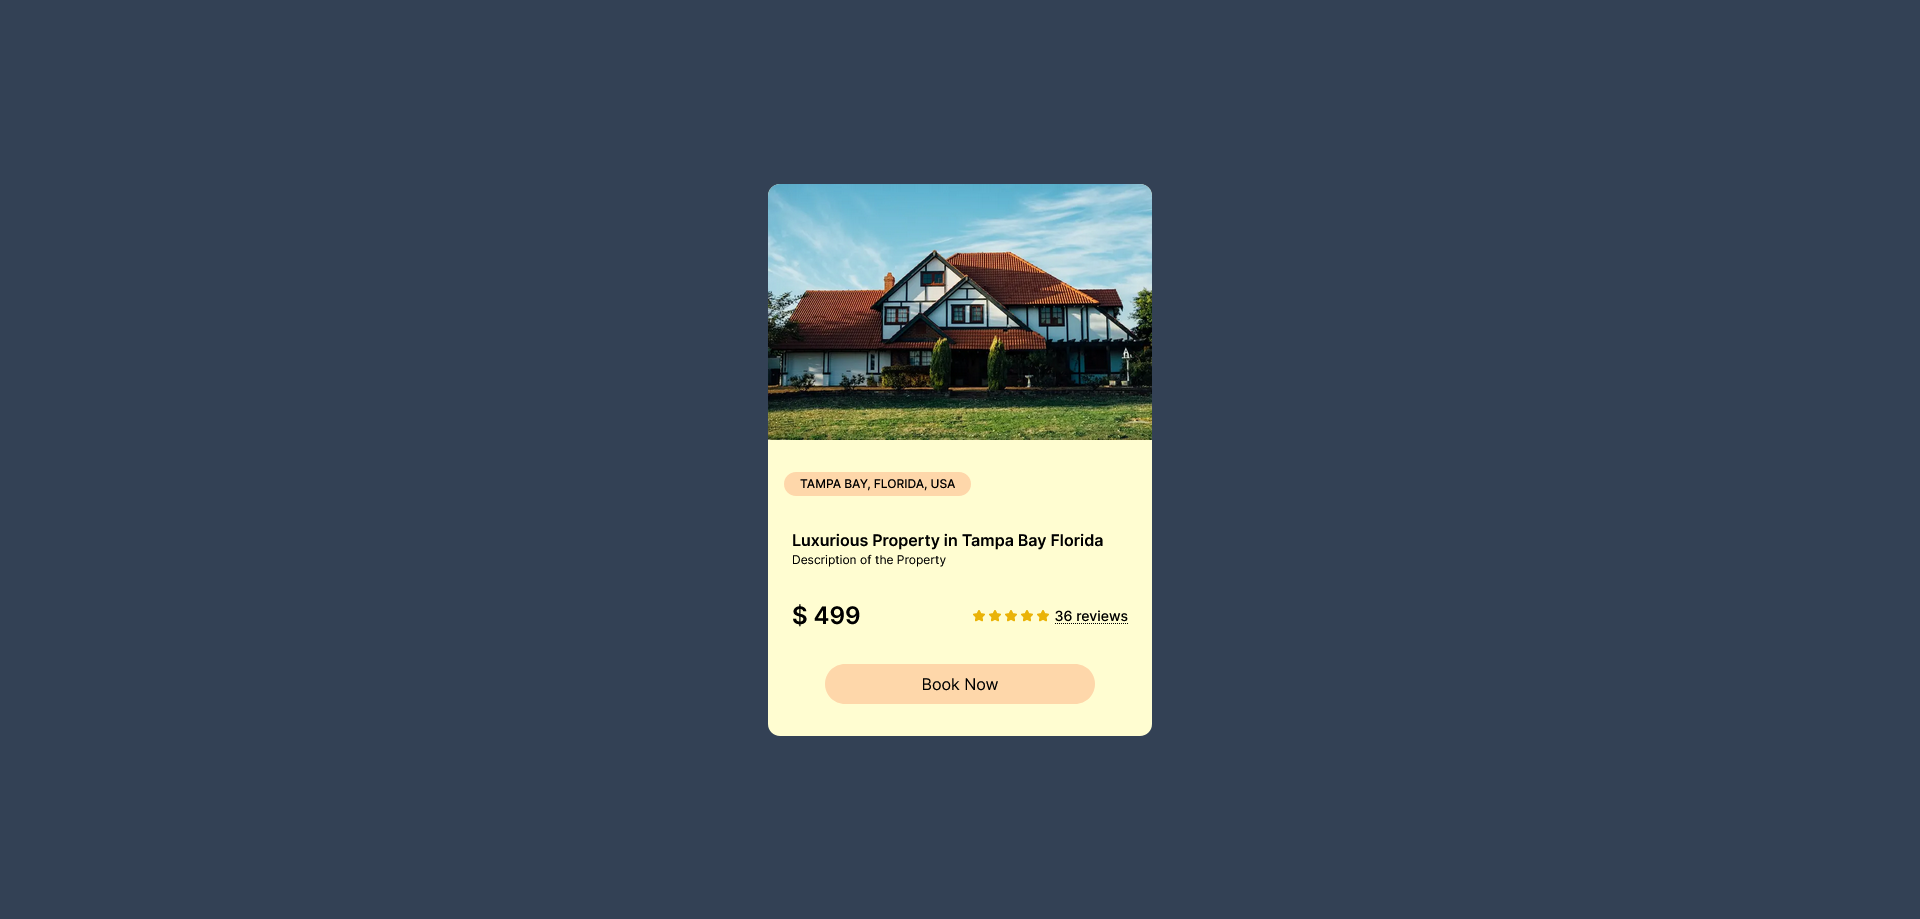
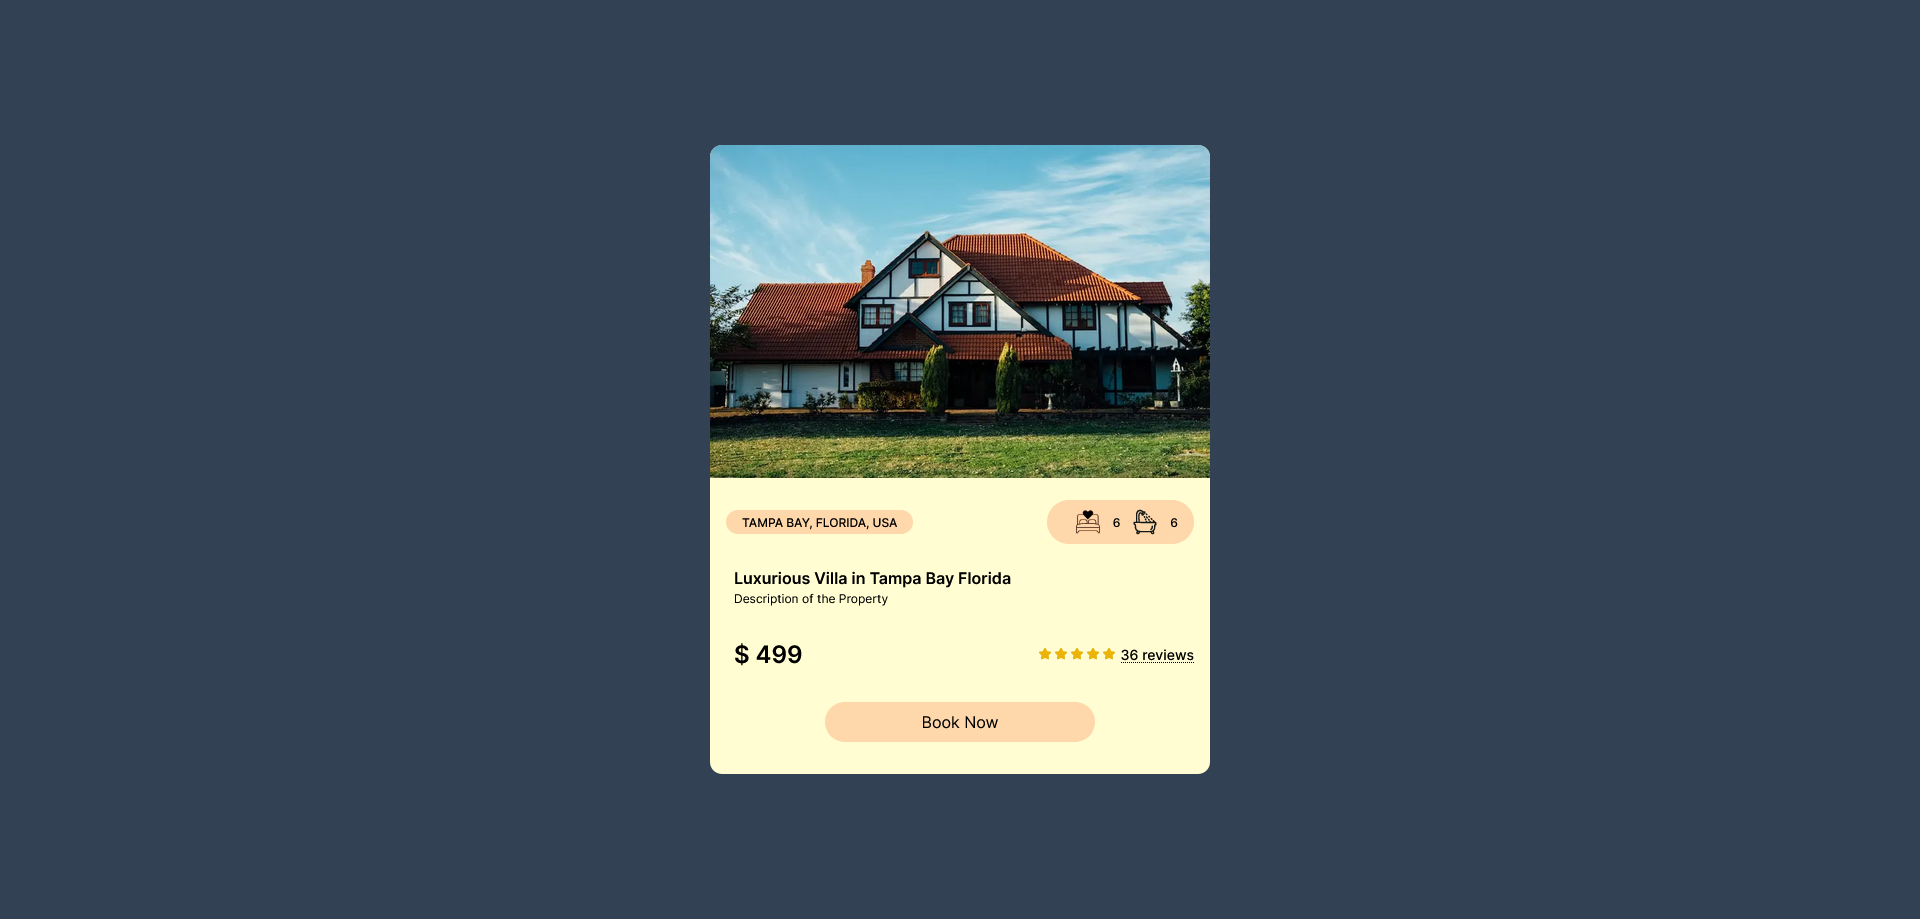
feat: rental card component updated

Changed region(s): [[0.3438, 0.1523, 0.6562, 0.8531]]

diff --git a/rental_card/src/app/page.tsx b/rental_card/src/app/page.tsx
@@ -1,5 +1,7 @@
-import Link from 'next/link';
 import Image from 'next/image';
+import Link from 'next/link';
+import bed from 'assets/bed-double-heart-svgrepo-com.svg';
+import shower from 'assets/shower-svgrepo-com.svg';
 
 const Star = () => {
 	return (
@@ -16,24 +18,47 @@ const Star = () => {
 export default function Home() {
 	return (
 		<main className='flex min-h-screen flex-col items-center justify-center p-24 bg-slate-700'>
-			<div className='flex gap-4 pb-4 flex-col w-96 rounded-xl bg-cream hover:rounded-t-xl'>
+			<div className='flex gap-4 pb-4 flex-col w-[500px] rounded-xl bg-cream hover:rounded-t-xl'>
 				<div className='w-full overflow-hidden hover:rounded-t-xl'>
 					<Image
 						src='https://images.unsplash.com/photo-1475855581690-80accde3ae2b?ixlib=rb-1.2.1&ixid=eyJhcHBfaWQiOjEyMDd9&auto=format&fit=crop&w=750&q=80'
 						width={750}
 						height={100}
-						alt='house'
+						alt='property'
 						className='rounded-t-xl hover:scale-110 transition cursor-pointer object-cover'
 					/>
 				</div>
-				<div className='flex py-4 pl-4'>
-					<h3 className='bg-orange-200 px-4 rounded-full uppercase font-medium text-xs py-1'>
-						Tampa Bay, Florida, USA
-					</h3>
+				<div className='flex items-center justify-between pr-4'>
+					<div className='flex py-4'>
+						<h3 className='bg-orange-200 px-4 rounded-full uppercase font-medium text-xs py-1 ml-4'>
+							Tampa Bay, Florida, USA
+						</h3>
+					</div>
+					<div className='flex py-2 px-4 rounded-full bg-orange-200'>
+						<div className='flex items-center'>
+							<Image
+								src={bed}
+								alt='bed'
+								height={50}
+								className='h-7'
+							/>
+							<h3 className='font-medium text-xs'>6</h3>
+						</div>
+						<div className='flex items-center'>
+							<Image
+								src={shower}
+								alt='shower'
+								height={50}
+								className='h-7'
+							/>
+							<h3 className='font-medium text-xs'>6</h3>
+						</div>
+					</div>
 				</div>
+
 				<div className='flex flex-col pl-6'>
 					<h1 className='font-semibold'>
-						Luxurious Property in Tampa Bay Florida
+						Luxurious Villa in Tampa Bay Florida
 					</h1>
 					<p className='font-normal pb-4 text-xs'>
 						Description of the Property
@@ -47,7 +72,7 @@ export default function Home() {
 						<Star />
 						<Star />
 						<Star />
-						<Link href='/' className='pr-6 flex gap-2'>
+						<Link href='/' className='pr-4 flex gap-2'>
 							<span className='text-sm font-medium underline decoration-dotted pl-1'>
 								36 reviews
 							</span>
